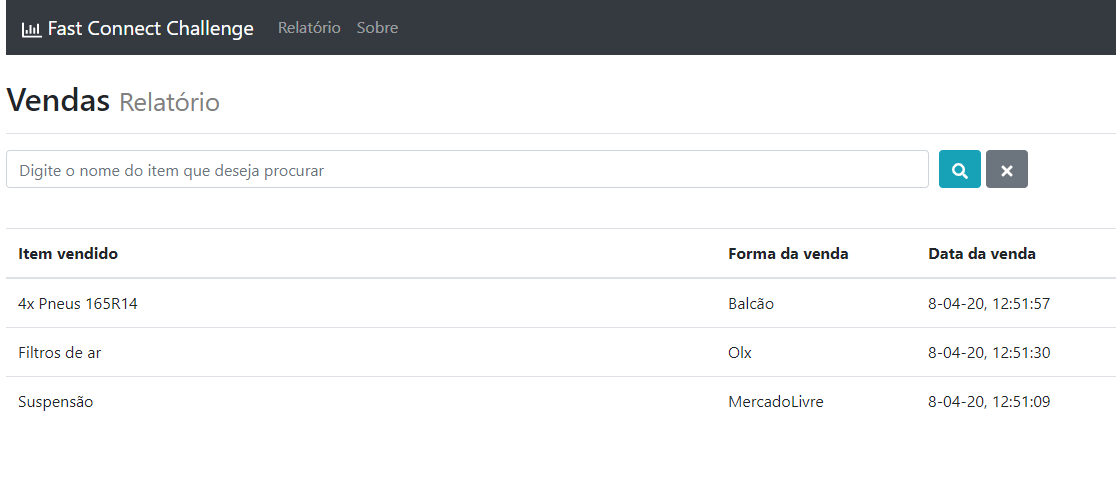
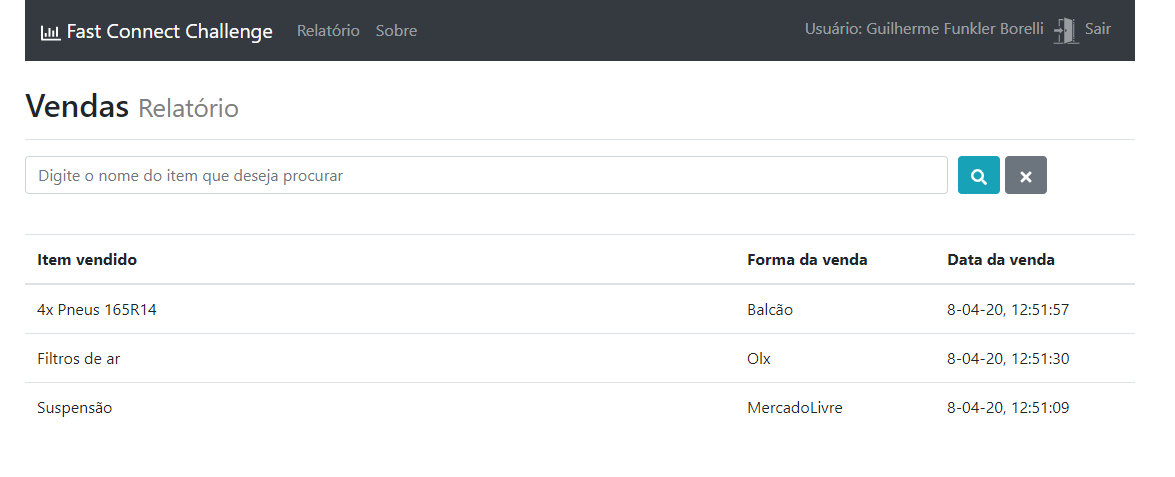
Added JWT to frontend

diff --git a/frontend/src/auth/Auth.jsx b/frontend/src/auth/Auth.jsx
@@ -1,0 +1,83 @@
+import React, { Component } from 'react'
+import { reduxForm, Field } from 'redux-form'
+import { connect } from 'react-redux'
+import { bindActionCreators } from 'redux'
+
+import { login, signup } from './authActions'
+
+import { Container, Card, Form, Button } from 'react-bootstrap'
+
+class Auth extends Component {
+    constructor(props) {
+        super(props)
+        this.state = { loginMode: true }
+    }
+
+    changeMode() {
+        this.setState({ loginMode: !this.state.loginMode })
+    }
+
+    onSubmit(values) {
+        const { login, signup } = this.props
+        this.state.loginMode ? login(values) : signup(values)
+    }
+
+
+    render() {
+        const ReduxFormControl = ({ input, meta, ...props }) => {
+            return <Form.Control {...props} {...input} />
+        }
+        const { loginMode } = this.state
+        const { handleSubmit } = this.props
+        return (
+            <div>
+                <Container className='mt-5'>
+                    <h3>Fast Connect Challenge</h3>
+                    <Card bg='light' text='dark' className="mt-5">
+                        <Card.Header>Faça seu login</Card.Header>
+                        <Card.Body>
+                            <Form onSubmit={handleSubmit(value => this.onSubmit(value))}>
+                                <Form.Group className={!loginMode ? '' : 'd-none'}>
+                                    <Form.Label>Nome</Form.Label>
+                                    <Field name='name' type='input' component={ReduxFormControl} placeholder='digite seu nome' />
+                                </Form.Group>
+
+                                <Form.Group>
+                                    <Form.Label>Email</Form.Label>
+                                    <Field name='email' type='email' component={ReduxFormControl} placeholder='digite seu email' />
+                                    <Form.Text className="text-muted">
+                                        Seus dados não serão compartilhados.
+                                    </Form.Text>
+                                </Form.Group>
+
+                                <Form.Group>
+                                    <Form.Label>Senha</Form.Label>
+                                    <Field name='password' type='password' component={ReduxFormControl} placeholder='digite sua senha' />
+                                </Form.Group>
+
+                                <Form.Group className={!loginMode ? '' : 'd-none'}>
+                                    <Form.Label>Confirmação da senha</Form.Label>
+                                    <Field name='confirm_password' type='password' component={ReduxFormControl} placeholder='digite sua senha novamente' />
+                                </Form.Group>
+
+                                <Button variant="primary" type="submit">
+                                    {loginMode ? 'Entrar' : 'Registrar'}
+                                </Button>
+                            </Form>
+                            <br />
+                            <a onClick={() => this.changeMode()}>
+                                {!loginMode ? 'Novo usuário? Clique aqui!' : 'Ja é cadastrado? Clique aqui!'}
+                            </a>
+                        </Card.Body>
+                    </Card>
+                </Container>
+            </div>
+        )
+    }
+}
+
+Auth = reduxForm({ form: 'authForm' })(Auth)
+const mapDispatchToProps = dispatch => bindActionCreators({ login, signup },
+    dispatch)
+
+export default connect(null, mapDispatchToProps)(Auth)

diff --git a/frontend/src/template/Menu.jsx b/frontend/src/template/Menu.jsx
@@ -1,17 +1,38 @@
-import React from 'react'
+import React, { Component } from 'react'
+import { connect } from 'react-redux'
+import { bindActionCreators } from 'redux'
+
+import { logout } from '../auth/authActions'
+
 import { Navbar, Nav } from 'react-bootstrap'
 import { FaRegChartBar } from 'react-icons/fa';
+import { GiExitDoor } from 'react-icons/gi'
 
-export default props => (
-
-    <Navbar bg='dark' variant='dark'>
-        <Navbar.Brand href='#sales'>
-            <FaRegChartBar />{' '}
-            Fast Connect Challenge
-        </Navbar.Brand>
-        <Nav>
-            <Nav.Link href='#sales'>Relatório</Nav.Link>
-            <Nav.Link href='#about'>Sobre</Nav.Link>
-        </Nav>
-    </Navbar>
-)
+class Menu extends Component {
+    render() {
+        const { name } = this.props.user
+        if (!this.props.user) return false
+        return (
+            <Navbar collapseOnSelect expand="lg" bg='dark' variant='dark'>
+                <Navbar.Brand href='#sales'>
+                    <FaRegChartBar />{' '}
+                    Fast Connect Challenge
+                </Navbar.Brand>
+                <Navbar.Toggle aria-controls="responsive-navbar-nav" />
+                <Navbar.Collapse id="responsive-navbar-nav">
+                    <Nav className="mr-auto">
+                        <Nav.Link href='#sales'>Relatório</Nav.Link>
+                        <Nav.Link href='#about'>Sobre</Nav.Link>
+                    </Nav>
+                    <Nav>
+                        <Navbar.Text >Usuário: {name}</Navbar.Text>
+                        <Nav.Link href="#" onClick={this.props.logout}><GiExitDoor size='1.8rem' /> Sair</Nav.Link>
+                    </Nav>
+                </Navbar.Collapse>
+            </Navbar >
+        )
+    }
+}
+const mapStateToProps = state => ({ user: state.auth.user })
+const mapDispatchToProps = dispatch => bindActionCreators({ logout }, dispatch)
+export default connect(mapStateToProps, mapDispatchToProps)(Menu)

diff --git a/frontend/src/auth/authActions.js b/frontend/src/auth/authActions.js
@@ -1,0 +1,43 @@
+import axios from 'axios'
+import consts from '../consts'
+
+export function login(values) {
+    return submit(values, `${consts.OAPI_URL}/login`)
+}
+
+export function signup(values) {
+    return submit(values, `${consts.OAPI_URL}/signup`)
+}
+
+function submit(values, url) {
+    return dispatch => {
+        axios.post(url, values)
+            .then(resp => {
+                dispatch([
+                    { type: 'USER_FETCHED', payload: resp.data }
+                ])
+            })
+            .catch(e => {
+                e.response.data.errors.forEach(
+                    error => error)
+            })
+    }
+}
+
+export function logout() {
+    return { type: 'TOKEN_VALIDATED', payload: false }
+}
+
+export function validateToken(token) {
+    return dispatch => {
+        if (token) {
+            axios.post(`${consts.OAPI_URL}/validateToken`, { token })
+                .then(resp => {
+                    dispatch({ type: 'TOKEN_VALIDATED', payload: resp.data.valid })
+                })
+                .catch(e => dispatch({ type: 'TOKEN_VALIDATED', payload: false }))
+        } else {
+            dispatch({ type: 'TOKEN_VALIDATED', payload: false })
+        }
+    }
+}

diff --git a/frontend/src/main/AuthOrApp.jsx b/frontend/src/main/AuthOrApp.jsx
@@ -1,0 +1,33 @@
+import React, { Component } from 'react'
+import { connect } from 'react-redux'
+import { bindActionCreators } from 'redux'
+
+import axios from 'axios'
+import App from '../App'
+import Auth from '../auth/Auth'
+import { validateToken } from '../auth/authActions'
+
+class AuthOrApp extends Component {
+
+    componentDidMount() {
+        if (this.props.auth.user) {
+            this.props.validateToken(this.props.auth.user.token)
+        }
+    }
+
+    render() {
+        const { user, validToken } = this.props.auth
+        if (user && validToken) {
+            axios.defaults.headers.common['authorization'] = user.token
+            return <App>{this.props.children}</App>
+        } else if (!user && !validToken) {
+            return <Auth />
+        } else {
+            return false
+        }
+    }
+}
+
+const mapStateToProps = state => ({ auth: state.auth })
+const mapDispatchToProps = dispatch => bindActionCreators({ validateToken }, dispatch)
+export default connect(mapStateToProps, mapDispatchToProps)(AuthOrApp)

diff --git a/backend/src/api/user/authService.js b/backend/src/api/user/authService.js
@@ -4,8 +4,6 @@ const bcrypt = require('bcrypt')
 const User = require('./user')
 const env = require('../../.env')
 
-const emailRegex = /\S+@\S+\.\S+/
-const passwordRegex = /((?=.*\d)(?=.*[a-z])(?=.*[A-Z])(?=.*[@#$%]).{6,20})/
 
 const sendErrorsFromDB = (res, dbErrors) => {
     const errors = []
@@ -46,18 +44,6 @@ const signup = (req, res, next) => {
     const email = req.body.email || ''
     const password = req.body.password || ''
     const confirmPassword = req.body.confirm_password || ''
-
-    if (!email.match(emailRegex)) {
-        return res.status(400).send({ errors: ['O e-mail informado está inválido'] })
-    }
-
-    if (!password.match(passwordRegex)) {
-        return res.status(400).send({
-            errors: [
-                "Senha precisar ter: uma letra maiúscula, uma letra minúscula, um número, uma caractere especial(@#$%) e tamanho entre 6 - 20."
-            ]
-        })
-    }
 
     const salt = bcrypt.genSaltSync()
     const passwordHash = bcrypt.hashSync(password, salt)

diff --git a/frontend/src/auth/authReducer.js b/frontend/src/auth/authReducer.js
@@ -1,0 +1,22 @@
+const userKey = '_mymoney_user'
+const INITIAL_STATE = {
+    user: JSON.parse(localStorage.getItem(userKey)),
+    validToken: false
+}
+
+export default (state = INITIAL_STATE, action) => {
+    switch (action.type) {
+        case 'TOKEN_VALIDATED':
+            if (action.payload) {
+                return { ...state, validToken: true }
+            } else {
+                localStorage.removeItem(userKey)
+                return { ...state, validToken: false, user: null }
+            }
+        case 'USER_FETCHED':
+            localStorage.setItem(userKey, JSON.stringify(action.payload))
+            return { ...state, user: action.payload, validToken: true }
+        default:
+            return state
+    }
+}

diff --git a/frontend/src/routes.jsx b/frontend/src/routes.jsx
@@ -1,13 +1,15 @@
 import React from 'react'
-import { Route, Redirect, HashRouter } from 'react-router-dom'
+import { Route, Redirect, Switch } from 'react-router'
 
 import Sale from './sale/Sale'
 import About from './about/About'
 
 export default props => (
-    <HashRouter>
-        <Route path='/sales' component={Sale} />
-        <Route path='/about' component={About} />
-        <Redirect from='*' to='/sales' />
-    </HashRouter>
+    <div>
+        <Switch>
+            <Route exact path='/sales' component={Sale} />
+            <Route path='/about' component={About} />
+            <Redirect from='*' to='/sales' />
+        </Switch>
+    </div>
 )

diff --git a/frontend/src/index.js b/frontend/src/index.js
@@ -2,7 +2,7 @@ import 'bootstrap/dist/css/bootstrap.css';
 import React from 'react';
 import ReactDOM from 'react-dom';
 import './index.css';
-import App from './App';
+import AuthOrApp from './main/AuthOrApp';
 import * as serviceWorker from './serviceWorker';
 
 import reducers from './reducers/reducers'
@@ -19,7 +19,7 @@ const store = createStore(reducers, composeWithDevTools(applyMiddleware(thunk, m
 ReactDOM.render(
     <React.StrictMode>
         <Provider store={store}>
-            <App />
+            <AuthOrApp />
         </Provider>
     </React.StrictMode>,
     document.getElementById('root')

diff --git a/frontend/src/App.js b/frontend/src/App.js
@@ -1,4 +1,6 @@
 import React from 'react';
+import { HashRouter } from 'react-router-dom'
+
 import './App.css';
 import { Container } from 'react-bootstrap'
 
@@ -7,10 +9,12 @@ import Routes from './routes'
 
 function App() {
   return (
-    <Container>
-      <Menu />
-      <Routes />
-    </Container>
+    <HashRouter>
+      <Container>
+        <Menu />
+        <Routes />
+      </Container>
+    </HashRouter>
   );
 }
 

diff --git a/frontend/src/reducers/reducers.js b/frontend/src/reducers/reducers.js
@@ -1,8 +1,12 @@
 import { combineReducers } from 'redux'
+import { reducer as formReducer } from 'redux-form'
 import saleReducer from '../sale/saleReducers'
+import authReducer from '../auth/authReducer'
 
 const rootReducer = combineReducers({
-    sale: saleReducer
+    sale: saleReducer,
+    form: formReducer,
+    auth: authReducer
 })
 
 export default rootReducer

diff --git a/frontend/src/sale/SaleForm.jsx b/frontend/src/sale/SaleForm.jsx
@@ -8,9 +8,6 @@ import { Col, Form, Button } from 'react-bootstrap'
 import { FaSearch, FaTimes } from 'react-icons/fa'
 
 class SaleForm extends Component {
-    constructor(props) {
-        super(props)
-    }
 
     componentDidMount() {
         this.props.search()

diff --git a/frontend/src/consts.js b/frontend/src/consts.js
@@ -1,0 +1,4 @@
+export default {
+    API_URL: 'http://localhost:3003/api',
+    OAPI_URL: 'http://localhost:3003/oapi',
+}
